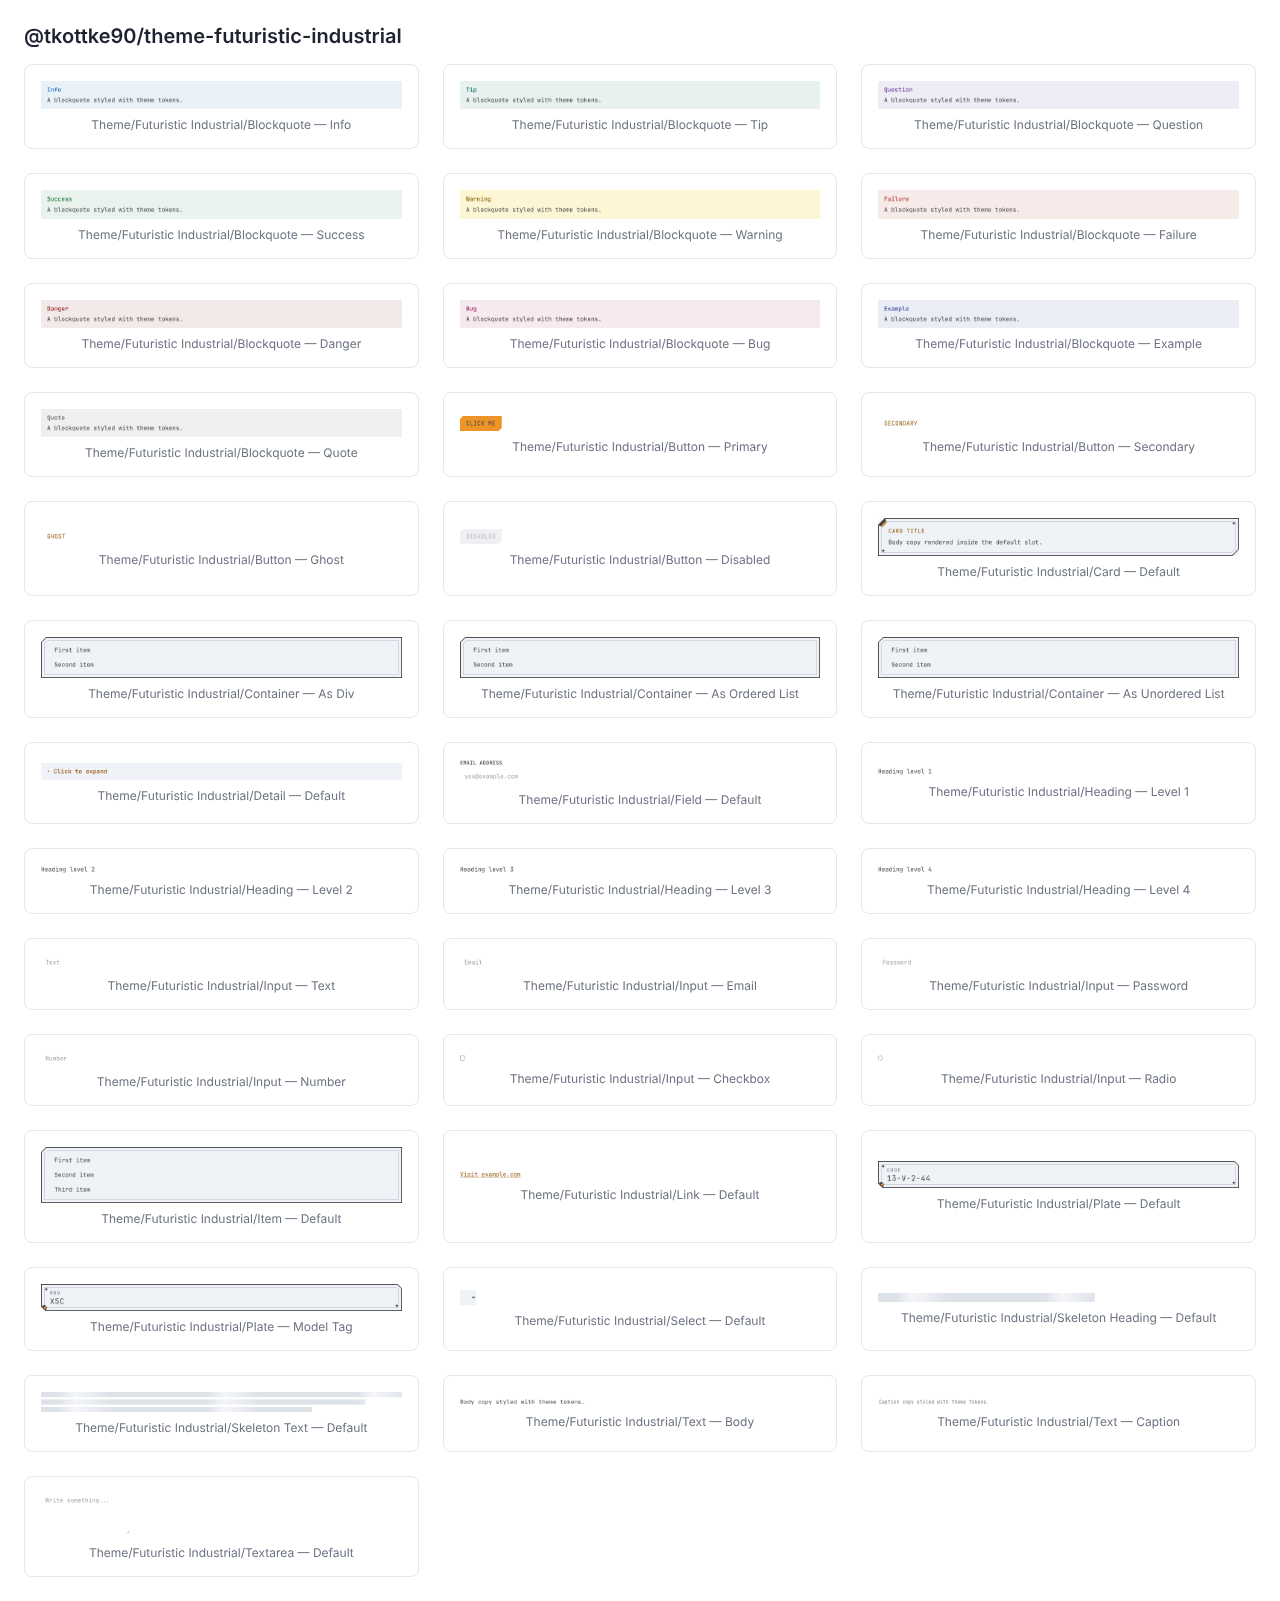
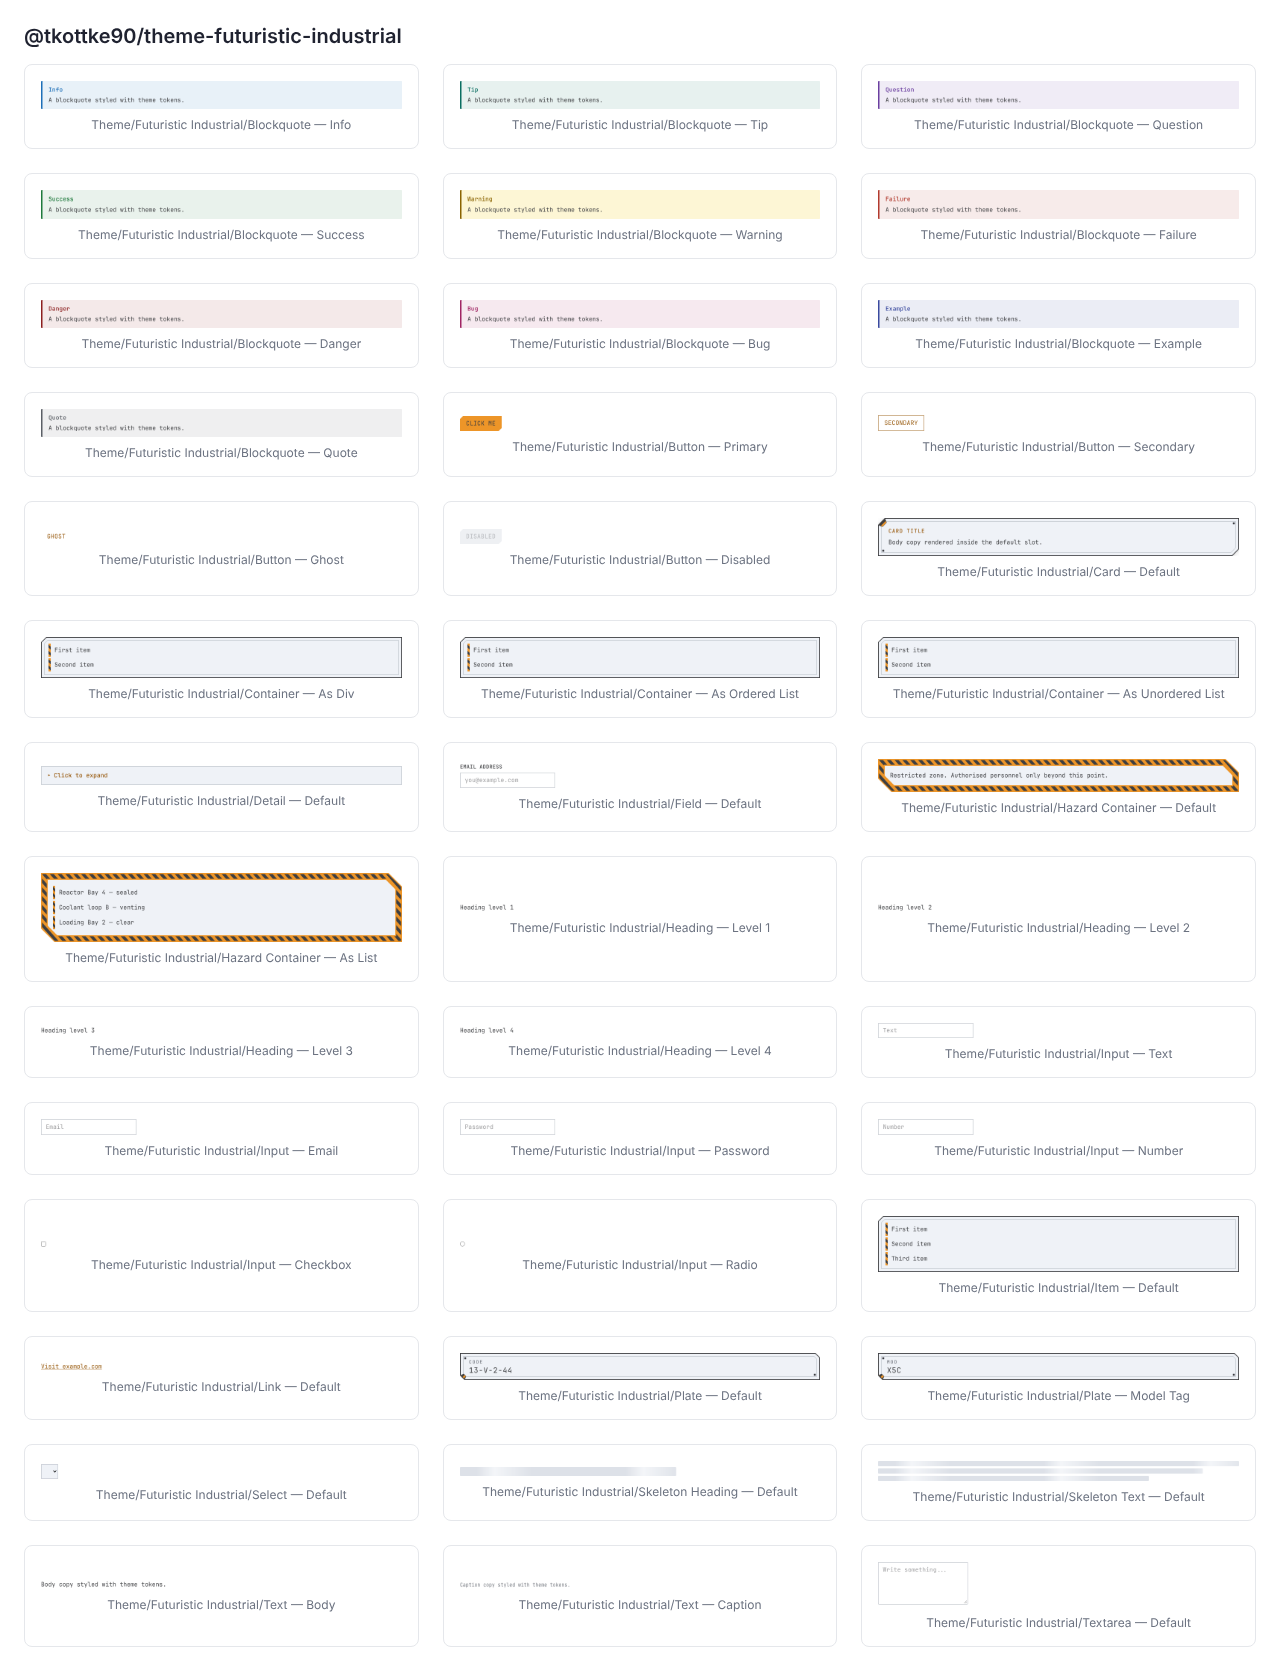
Add hazard-tape container frame; fix Tailwind defaults in shadow DOM
New theme-hazard-container frames content in the reference sheet's
hazard-stripe bar, scaled to any box: an orange band with charcoal
diagonal stripes inset from both edges, chamfered top-right/bottom-left,
with the bar's measured stripe proportions kept at any band thickness.

Also fixes borders and ::before content never rendering inside the
components: Tailwind v4 sets --tw-* defaults via @property, which
browsers ignore in shadow roots, and its fallback block is guarded to
browsers without @property support. The generated styles now drop that
guard.

Claude-Session: https://claude.ai/code/session_01Fmf8faSWUd2Ct2XznrgLRC

diff --git a/packages/theme-futuristic-industrial/src/hazard-frame-geometry.ts b/packages/theme-futuristic-industrial/src/hazard-frame-geometry.ts
@@ -1,0 +1,74 @@
+import { closed, inset, outline, type Corner } from "./plate-geometry.js";
+
+/**
+ * Proportions of the reference sheet's hazard-stripe bar, measured in pixels
+ * from the source image (a 67px-tall bar). The frame scales all of these by
+ * `thickness / SOURCE_HEIGHT`, so a thinner or thicker border keeps the same
+ * stripe spacing, stripe width, and orange margin as the original bar.
+ */
+const SOURCE_HEIGHT = 67;
+const SOURCE_PITCH = 78;
+const SOURCE_STRIPE_WIDTH = 40;
+const SOURCE_MARGIN = 10;
+
+/** Stripe lean: 42px of horizontal travel over the 47px stripe height. */
+export const HAZARD_SKEW_DEG = 41.8;
+
+export interface HazardFrameOptions {
+  /** Width of the striped band, px. Default 18. */
+  thickness?: number;
+  /** Chamfer size, px. Default 2 × thickness. */
+  cut?: number;
+  /** Which corners are chamfered. Default ["tr", "bl"], matching the source bar's ends. */
+  cutCorners?: Corner[];
+}
+
+export interface HazardFrameGeometry {
+  viewBox: string;
+  /** Orange band: the outer outline plus the inner window, filled evenodd. */
+  bandD: string;
+  /** Stripe region: the band shrunk by the orange margin on both sides, filled evenodd. */
+  stripeD: string;
+  /** The content window inside the band. */
+  innerD: string;
+  /** Distance between stripe starts, px. */
+  pitch: number;
+  /** Horizontal width of one stripe, px. */
+  stripeWidth: number;
+}
+
+/**
+ * Computes the hazard frame's SVG geometry for a measured `w`×`h` box.
+ * Returns `null` when there's nothing to measure yet, or when the box is too
+ * small for the band to leave any content window.
+ */
+export function computeHazardFrame(
+  w: number,
+  h: number,
+  options: HazardFrameOptions = {},
+): HazardFrameGeometry | null {
+  const t = options.thickness ?? 18;
+  if (!w || !h || w <= 2 * t || h <= 2 * t) return null;
+
+  // A chamfer under ~0.586 × the inset distance collapses when inset, so the
+  // inner window would lose its cut corner; keep it comfortably above that.
+  const cut = Math.max(options.cut ?? 2 * t, t);
+  const cutCorners = new Set<Corner>(options.cutCorners ?? ["tr", "bl"]);
+  const { pts } = outline(w, h, cut, cutCorners);
+
+  const scale = t / SOURCE_HEIGHT;
+  const margin = SOURCE_MARGIN * scale;
+
+  const innerD = closed(inset(pts, t));
+  const bandD = `${closed(pts)} ${innerD}`;
+  const stripeD = `${closed(inset(pts, margin))} ${closed(inset(pts, t - margin))}`;
+
+  return {
+    viewBox: `0 0 ${w} ${h}`,
+    bandD,
+    stripeD,
+    innerD,
+    pitch: +(SOURCE_PITCH * scale).toFixed(2),
+    stripeWidth: +(SOURCE_STRIPE_WIDTH * scale).toFixed(2),
+  };
+}

diff --git a/packages/theme-futuristic-industrial/src/hazard-frame-geometry.test.ts b/packages/theme-futuristic-industrial/src/hazard-frame-geometry.test.ts
@@ -1,0 +1,58 @@
+import { computeHazardFrame } from "./hazard-frame-geometry.js";
+
+const subpaths = (d: string) => d.match(/M/g)?.length ?? 0;
+
+describe("computeHazardFrame", () => {
+  it("returns null when there's nothing to measure yet", () => {
+    expect(computeHazardFrame(0, 0)).toBeNull();
+    expect(computeHazardFrame(300, 0)).toBeNull();
+    expect(computeHazardFrame(0, 200)).toBeNull();
+  });
+
+  it("returns null when the band would leave no content window", () => {
+    // Default thickness is 18, so anything 36px or under has no window.
+    expect(computeHazardFrame(36, 200)).toBeNull();
+    expect(computeHazardFrame(200, 30)).toBeNull();
+  });
+
+  it("produces a viewBox matching the measured size", () => {
+    expect(computeHazardFrame(320, 180)?.viewBox).toBe("0 0 320 180");
+  });
+
+  it("builds the band and the stripe region as two closed subpaths each", () => {
+    const geometry = computeHazardFrame(320, 180);
+    expect(subpaths(geometry!.bandD)).toBe(2);
+    expect(subpaths(geometry!.stripeD)).toBe(2);
+    expect(geometry!.innerD.trim().endsWith("Z")).toBe(true);
+  });
+
+  it("keeps the source bar's stripe proportions at the default thickness", () => {
+    // 18px band: pitch 78 × 18/67, stripe 40 × 18/67.
+    const geometry = computeHazardFrame(320, 180);
+    expect(geometry?.pitch).toBeCloseTo(20.96, 1);
+    expect(geometry?.stripeWidth).toBeCloseTo(10.75, 1);
+  });
+
+  it("scales the stripe pattern with the thickness", () => {
+    const thin = computeHazardFrame(320, 180, { thickness: 12 })!;
+    const thick = computeHazardFrame(320, 180, { thickness: 24 })!;
+    expect(thick.pitch).toBeCloseTo(thin.pitch * 2, 1);
+    expect(thick.stripeWidth).toBeCloseTo(thin.stripeWidth * 2, 1);
+  });
+
+  it("chamfers the top-right and bottom-left corners by default", () => {
+    // Outer outline, first subpath of bandD: square TL, cut TR, square BR, cut BL = 6 points.
+    const outer = computeHazardFrame(320, 180)!.bandD.split("Z")[0]!;
+    expect(outer.split("L")).toHaveLength(6);
+  });
+
+  it("accepts custom options", () => {
+    const geometry = computeHazardFrame(320, 180, {
+      thickness: 14,
+      cut: 20,
+      cutCorners: ["tl", "tr", "br", "bl"],
+    });
+    const outer = geometry!.bandD.split("Z")[0]!;
+    expect(outer.split("L")).toHaveLength(8);
+  });
+});

diff --git a/packages/theme-futuristic-industrial/src/hazard-frame-svg.ts b/packages/theme-futuristic-industrial/src/hazard-frame-svg.ts
@@ -1,0 +1,41 @@
+import { svg } from "lit";
+import { HAZARD_SKEW_DEG, type HazardFrameGeometry } from "./hazard-frame-geometry.js";
+
+/**
+ * Renders the hazard-tape frame's `<svg>` overlay: an orange band around the
+ * box with charcoal diagonal stripes inset from both of its edges, the same
+ * layout as the reference sheet's hazard bar. Place inside a
+ * `position: relative; isolation: isolate` host, like `renderPlateFrame`.
+ *
+ * The stripes are a `userSpaceOnUse` pattern, so they run continuously around
+ * corners instead of restarting on each edge. The pattern is defined per
+ * instance because shadow DOM scopes `url(#id)` references.
+ */
+export function renderHazardFrame(geometry: HazardFrameGeometry | null) {
+  const viewBox = geometry?.viewBox ?? "0 0 1 1";
+  const pitch = geometry?.pitch ?? 1;
+  const stripeWidth = geometry?.stripeWidth ?? 0;
+
+  return svg`
+    <svg
+      class="pointer-events-none absolute inset-0 block h-full w-full"
+      viewBox=${viewBox}
+      aria-hidden="true"
+    >
+      <defs>
+        <pattern
+          id="hazard-stripes"
+          patternUnits="userSpaceOnUse"
+          width=${pitch}
+          height=${pitch}
+          patternTransform="skewX(${HAZARD_SKEW_DEG})"
+        >
+          <rect width=${stripeWidth} height=${pitch} fill="var(--color-neutral-900)" />
+        </pattern>
+      </defs>
+      <path d=${geometry?.innerD ?? ""} fill="var(--color-neutral-50)" />
+      <path d=${geometry?.bandD ?? ""} fill="var(--color-brand-500)" fill-rule="evenodd" />
+      <path d=${geometry?.stripeD ?? ""} fill="url(#hazard-stripes)" fill-rule="evenodd" />
+    </svg>
+  `;
+}

diff --git a/packages/theme-futuristic-industrial/src/plate-geometry.ts b/packages/theme-futuristic-industrial/src/plate-geometry.ts
@@ -17,7 +17,7 @@ export type Corner = "tl" | "tr" | "br" | "bl";
 
 const ALL_CORNERS: Corner[] = ["tl", "tr", "br", "bl"];
 
-interface Outline {
+export interface Outline {
   /** Outline points, clockwise, starting at the top edge. */
   pts: Point[];
   /** For each chamfered corner, the index pair of its two outline points. */
@@ -31,7 +31,12 @@ interface Outline {
  * the result is a valid clockwise polygon for `inset()` regardless of which
  * corners are cut.
  */
-function outline(w: number, h: number, cut: number, cutCorners: ReadonlySet<Corner>): Outline {
+export function outline(
+  w: number,
+  h: number,
+  cut: number,
+  cutCorners: ReadonlySet<Corner>,
+): Outline {
   const pts: Point[] = [];
   const cutIndex: Outline["cutIndex"] = {};
 
@@ -59,7 +64,7 @@ function outline(w: number, h: number, cut: number, cutCorners: ReadonlySet<Corn
  * `inset()`, just not shared across packages (see that file's own note on
  * why these geometry modules are duplicated rather than imported).
  */
-function inset(pts: Point[], d: number): Point[] {
+export function inset(pts: Point[], d: number): Point[] {
   const n = pts.length;
   const normal = (a: Point, b: Point): Point => {
     const dx = b[0] - a[0];
@@ -76,7 +81,7 @@ function inset(pts: Point[], d: number): Point[] {
 }
 
 const fmt = ([x, y]: Point) => `${+x.toFixed(2)},${+y.toFixed(2)}`;
-const closed = (pts: Point[]) => "M" + pts.map(fmt).join(" L") + " Z";
+export const closed = (pts: Point[]) => "M" + pts.map(fmt).join(" L") + " Z";
 
 const RIVET_POS: Record<Corner, (w: number, h: number, m: number) => Point> = {
   tl: (_w, _h, m) => [m, m],

diff --git a/packages/theme-futuristic-industrial/src/theme-hazard-container.ts b/packages/theme-futuristic-industrial/src/theme-hazard-container.ts
@@ -1,0 +1,51 @@
+import { LitElement, css } from "lit";
+import { customElement, property } from "lit/decorators.js";
+import { html as staticHtml, literal, type StaticValue } from "lit/static-html.js";
+import { themeStyles } from "./generated/theme-styles.js";
+import { HazardFrameController } from "./hazard-frame-controller.js";
+import { renderHazardFrame } from "./hazard-frame-svg.js";
+import type { ThemeContainerTag } from "./theme-container.js";
+
+const TAGS: Record<ThemeContainerTag, StaticValue> = {
+  div: literal`div`,
+  ol: literal`ol`,
+  ul: literal`ul`,
+};
+
+/**
+ * Same role as `theme-container`, framed in the reference sheet's hazard tape
+ * instead of a plate: an orange band with charcoal diagonal stripes, chamfered
+ * at the top-right and bottom-left like the source bar's ends. For restricted
+ * or high-attention areas rather than everyday grouping.
+ */
+@customElement("theme-hazard-container")
+export class ThemeHazardContainer extends LitElement {
+  static styles = [
+    themeStyles,
+    css`
+      :host {
+        display: block;
+        position: relative;
+        isolation: isolate;
+      }
+    `,
+  ];
+
+  @property({ type: String }) as: ThemeContainerTag = "div";
+
+  private frame = new HazardFrameController(this);
+
+  render() {
+    const tag = TAGS[this.as] ?? TAGS.div;
+    return staticHtml`
+      ${renderHazardFrame(this.frame.geometry)}
+      <${tag} class="relative font-sans text-neutral-900 p-8 m-0"><slot></slot></${tag}>
+    `;
+  }
+}
+
+declare global {
+  interface HTMLElementTagNameMap {
+    "theme-hazard-container": ThemeHazardContainer;
+  }
+}

diff --git a/packages/theme-futuristic-industrial/src/theme-hazard-container.test.ts b/packages/theme-futuristic-industrial/src/theme-hazard-container.test.ts
@@ -1,0 +1,38 @@
+import "./theme-hazard-container.js";
+import type { ThemeHazardContainer } from "./theme-hazard-container.js";
+
+describe("theme-hazard-container", () => {
+  it("defaults to rendering a div", async () => {
+    const el = document.createElement("theme-hazard-container") as ThemeHazardContainer;
+    document.body.appendChild(el);
+    await el.updateComplete;
+
+    expect(el.shadowRoot?.querySelector("div")).not.toBeNull();
+
+    el.remove();
+  });
+
+  it("renders the semantic tag matching the as property", async () => {
+    const el = document.createElement("theme-hazard-container") as ThemeHazardContainer;
+    el.as = "ul";
+    document.body.appendChild(el);
+    await el.updateComplete;
+
+    expect(el.shadowRoot?.querySelector("ul")).not.toBeNull();
+    expect(el.shadowRoot?.querySelector("div")).toBeNull();
+
+    el.remove();
+  });
+
+  it("renders the frame overlay and a slot for content", async () => {
+    const el = document.createElement("theme-hazard-container") as ThemeHazardContainer;
+    el.textContent = "Restricted";
+    document.body.appendChild(el);
+    await el.updateComplete;
+
+    expect(el.shadowRoot?.querySelector("svg pattern#hazard-stripes")).not.toBeNull();
+    expect(el.shadowRoot?.querySelector("slot")).not.toBeNull();
+
+    el.remove();
+  });
+});

diff --git a/packages/theme-futuristic-industrial/src/theme-hazard-container.stories.ts b/packages/theme-futuristic-industrial/src/theme-hazard-container.stories.ts
@@ -1,0 +1,28 @@
+import type { Meta, StoryObj } from "@storybook/web-components";
+import { html } from "lit";
+import "./theme-hazard-container.js";
+import "./theme-item.js";
+
+const meta: Meta = {
+  title: "Theme/Futuristic Industrial/Hazard Container",
+  render: () => html`
+    <theme-hazard-container>
+      Restricted zone. Authorised personnel only beyond this point.
+    </theme-hazard-container>
+  `,
+};
+export default meta;
+
+type Story = StoryObj;
+
+export const Default: Story = {};
+
+export const AsList: Story = {
+  render: () => html`
+    <theme-hazard-container as="ul">
+      <theme-item>Reactor Bay 4 — sealed</theme-item>
+      <theme-item>Coolant loop B — venting</theme-item>
+      <theme-item>Loading Bay 2 — clear</theme-item>
+    </theme-hazard-container>
+  `,
+};

diff --git a/packages/theme-futuristic-industrial/src/hazard-frame-controller.ts b/packages/theme-futuristic-industrial/src/hazard-frame-controller.ts
@@ -1,0 +1,14 @@
+import type { ReactiveControllerHost } from "lit";
+import {
+  computeHazardFrame,
+  type HazardFrameGeometry,
+  type HazardFrameOptions,
+} from "./hazard-frame-geometry.js";
+import { ResizeFrameController } from "./resize-frame-controller.js";
+
+/** `ResizeFrameController` bound to the hazard-tape frame's geometry. */
+export class HazardFrameController extends ResizeFrameController<HazardFrameGeometry> {
+  constructor(host: ReactiveControllerHost & HTMLElement, options: HazardFrameOptions = {}) {
+    super(host, (w, h) => computeHazardFrame(w, h, options));
+  }
+}

diff --git a/packages/theme-futuristic-industrial/src/index.ts b/packages/theme-futuristic-industrial/src/index.ts
@@ -19,3 +19,4 @@ export type { BlockquoteType } from "./theme-blockquote.js";
 export { ThemeSkeletonHeading } from "./theme-skeleton-heading.js";
 export { ThemeSkeletonText } from "./theme-skeleton-text.js";
 export { ThemePlate } from "./theme-plate.js";
+export { ThemeHazardContainer } from "./theme-hazard-container.js";

diff --git a/packages/theme-futuristic-industrial/README.md b/packages/theme-futuristic-industrial/README.md
@@ -43,6 +43,19 @@ than a single reskinned shape:
   chamfered (top-right/bottom-left) with the stripe on the bottom-left cut,
   so it doesn't read as a smaller Card.
 
+**Hazard Container** uses a separate frame (`hazard-frame-geometry.ts`)
+rebuilt from the reference sheet's hazard-stripe bar: an orange band with
+charcoal diagonal stripes inset from both edges, chamfered at the top-right
+and bottom-left like the bar's ends. Stripe spacing, width, margin and lean
+are the bar's measured proportions scaled to the band thickness, and the
+stripes are one continuous pattern, so they run around the corners instead of
+restarting on each edge. Use it for restricted or high-attention areas, not
+everyday grouping.
+
+```html
+<theme-hazard-container>Restricted zone. Authorised personnel only.</theme-hazard-container>
+```
+
 ## Local development
 
 ```
